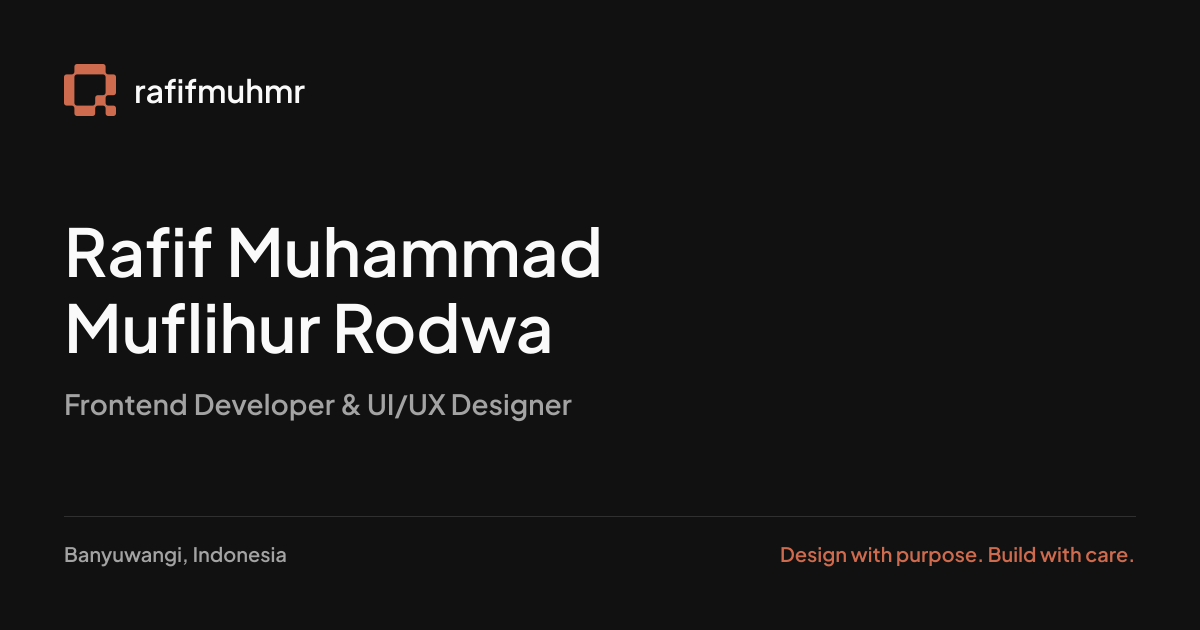
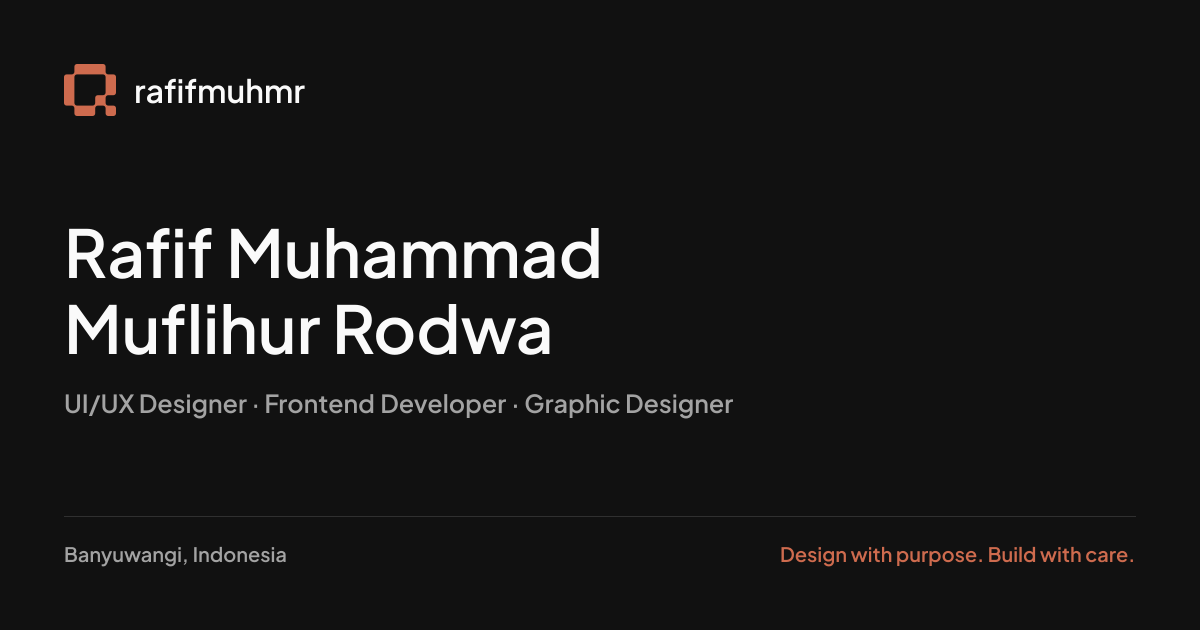
feat(home): add bilingual hero with responsive layout

diff --git a/src/components/home/hero.tsx b/src/components/home/hero.tsx
@@ -1,0 +1,37 @@
+import Image from "next/image";
+import {getTranslations} from "next-intl/server";
+import {Link} from "@/i18n/navigation";
+import {buttonVariants} from "@/components/ui/button";
+import {IconTile} from "@/components/ui/icon-tile";
+import {cn} from "@/lib/utils";
+
+export async function Hero() {
+  const t = await getTranslations("Hero");
+
+  return (
+    <section aria-labelledby="hero-title" className="grid items-stretch gap-8 sm:gap-10 md:grid-cols-2 md:gap-16 lg:gap-24">
+      <div className="flex flex-col justify-between gap-6">
+        <IconTile className="size-16 rounded-[12px] p-1 sm:size-19">
+          <Image src="/images/rafifmuhmr-pp.png" alt="Rafif Muhammad Muflihur Rodwa" width={72} height={72} sizes="(min-width: 640px) 66px, 54px" className="size-full rounded-md object-cover" />
+        </IconTile>
+        <div className="space-y-3">
+          <p className="text-sm font-medium text-muted-foreground">UI/UX Designer</p>
+          <h1 id="hero-title" className="max-w-full text-[30px] leading-tight font-medium tracking-tight text-balance sm:text-[52px]">
+            {t("greeting")}
+          </h1>
+        </div>
+      </div>
+
+      <div className="flex flex-col justify-between gap-6">
+        <h2 className="max-w-xl text-xl leading-snug font-medium tracking-tight text-balance sm:text-3xl lg:text-4xl">
+          {t("headline")}
+        </h2>
+        <p className="max-w-xl text-sm leading-6 sm:text-base sm:leading-7 text-pretty text-muted-foreground">{t("description")}</p>
+        <div className="flex flex-wrap items-center gap-3 pt-1">
+          <Link href="/contact" className={cn(buttonVariants({size: "lg"}), "px-4")}>{t("contact")}</Link>
+          <Link href="/projects" className={cn(buttonVariants({variant: "outline", size: "lg"}), "px-4")}>{t("work")}</Link>
+        </div>
+      </div>
+    </section>
+  );
+}

diff --git a/src/app/[locale]/page.tsx b/src/app/[locale]/page.tsx
@@ -3,8 +3,8 @@ import {hasLocale} from "next-intl";
 import {notFound} from "next/navigation";
 import {routing} from "@/i18n/routing";
 import {homeMetadata, homeStructuredData} from "@/lib/seo";
-import {getTranslations, setRequestLocale} from "next-intl/server";
-import { Button } from "@/components/ui/button";
+import {setRequestLocale} from "next-intl/server";
+import {Hero} from "@/components/home/hero";
 
 export async function generateMetadata({params}: {params: Promise<{locale: string}>}): Promise<Metadata> {
   const {locale} = await params;
@@ -16,27 +16,11 @@ export default async function Home({params}: {params: Promise<{locale: string}>}
   const {locale} = await params;
   if (!hasLocale(routing.locales, locale)) notFound();
   setRequestLocale(locale);
-  const t = await getTranslations("Home");
   return (
-    <main className="mx-auto w-full max-w-7xl px-4 pt-32 pb-12 sm:px-6">
+    <main className="w-full px-4 pt-18 pb-12 sm:px-6 sm:pt-36 md:pt-44 lg:pt-48">
       <script type="application/ld+json" dangerouslySetInnerHTML={{__html: JSON.stringify(homeStructuredData(locale)).replace(/</g, "\\u003c")}} />
-      <div className="flex flex-col items-center justify-center gap-6">
-      <h1 className="text-3xl font-semibold tracking-tight">
-        {t("title")}
-      </h1>
-
-      <p className="text-center text-muted-foreground">
-        {t("description")}
-      </p>
-
-      <div className="flex flex-wrap justify-center gap-3">
-        <Button>{t("primary")}</Button>
-        <Button variant="outline">{t("outline")}</Button>
-        <Button variant="ghost">{t("ghost")}</Button>
-      </div>
-
-      <p className="font-sans">{t("font")}</p>
-      <p className="font-mono">TypeScript / React / Next.js</p>
+      <div className="mx-auto w-full max-w-7xl">
+        <Hero />
       </div>
     </main>
   );

diff --git a/scripts/generate-social-images.tsx b/scripts/generate-social-images.tsx
@@ -3,7 +3,6 @@
 import {ImageResponse} from "next/og";
 import sharp from "sharp";
 import {readFile, writeFile, mkdir} from "node:fs/promises";
-import {site} from "../src/config/site";
 
 const fontUrl = "https://fonts.gstatic.com/s/plusjakartasans/v12/LDIbaomQNQcsA88c7O9yZ4KMCoOg4IA6-91aHEjcWuA_d0nNSg.ttf";
 const response = await fetch(fontUrl);
@@ -23,7 +22,7 @@ for (const locale of ["en", "id"]) {
       </div>
       <div style={{display: "flex", flexDirection: "column", gap: 22}}>
         <div style={{display: "flex", flexDirection: "column", fontSize: 66, lineHeight: 1.15, maxWidth: 1000}}><span>Rafif Muhammad</span><span>Muflihur Rodwa</span></div>
-        <div style={{fontSize: 28, color: "#a3a3a3"}}>{locale === "id" ? "Frontend Developer & Desainer UI/UX" : site.role}</div>
+        <div style={{fontSize: 25, color: "#a3a3a3"}}>{locale === "id" ? "Desainer UI/UX · Frontend Developer · Desainer Grafis" : "UI/UX Designer · Frontend Developer · Graphic Designer"}</div>
       </div>
       <div style={{display: "flex", justifyContent: "space-between", alignItems: "center", borderTop: "1px solid #303030", paddingTop: 24, color: "#a3a3a3", fontSize: 20}}>
         <span>Banyuwangi, Indonesia</span>

diff --git a/src/lib/seo.ts b/src/lib/seo.ts
@@ -6,12 +6,12 @@ import {socialLinks} from "@/config/socials";
 export type SiteLocale = (typeof routing.locales)[number];
 export const seoCopy = {
   en: {
-    title: `${site.owner} — Frontend Developer & UI/UX Designer`,
-    description: "Meet Rafif Muhammad Muflihur Rodwa (rafifmuhmr), a frontend developer and UI/UX designer based in Banyuwangi, Indonesia. Explore his work and ideas.",
+    title: `${site.owner} — UI/UX Designer`,
+    description: "Meet Rafif Muhammad Muflihur Rodwa (rafifmuhmr), a UI/UX designer in Banyuwangi, Indonesia, also exploring frontend development and graphic design.",
   },
   id: {
-    title: `${site.owner} — Frontend Developer & Desainer UI/UX`,
-    description: "Kenali Rafif Muhammad Muflihur Rodwa (rafifmuhmr), frontend developer dan desainer UI/UX dari Banyuwangi, Indonesia. Jelajahi karya dan idenya.",
+    title: `${site.owner} — Desainer UI/UX`,
+    description: "Kenali Rafif Muhammad Muflihur Rodwa (rafifmuhmr), desainer UI/UX dari Banyuwangi yang juga mendalami frontend development dan desain grafis.",
   },
 } as const;
 

diff --git a/src/config/site.ts b/src/config/site.ts
@@ -3,7 +3,7 @@ export const site = {
   url: "https://rafifmuhmr-portfolio.vercel.app",
   name: "rafifmuhmr",
   owner: "Rafif Muhammad Muflihur Rodwa",
-  role: "Frontend Developer & UI/UX Designer",
+  role: "UI/UX Designer, Frontend Developer & Graphic Designer",
 } as const;
 
 export const isPreview = process.env.VERCEL_ENV === "preview";

diff --git a/README.md b/README.md
@@ -2,7 +2,7 @@
 
 A personal portfolio by Rafif, showcasing frontend development, UI/UX design, selected projects, and writing. Built with Next.js, TypeScript, and Bun, with English and Indonesian language support.
 
-**Development status:** foundation stage. The header, footer, theme controls, language switcher, and local information widget are implemented. The homepage still contains placeholder content; work, about, blog, and contact routes currently display localized coming-soon pages excluded from indexing.
+**Development status:** foundation stage. The header, footer, theme controls, language switcher, and local information widget are implemented. The homepage includes a bilingual introduction hero; selected projects and other portfolio sections are still in development; work, about, blog, and contact routes currently display localized coming-soon pages excluded from indexing.
 
 [Instagram](https://www.instagram.com/rafifmuhmr) · [Threads](https://www.threads.com/@rafifmuhmr) · [LinkedIn](https://www.linkedin.com/in/rafifmuhmr) · [GitHub](https://github.com/rafifmuhmr)
 
@@ -192,7 +192,7 @@ See [`docs/seo-launch.md`](./docs/seo-launch.md) for indexing, metadata validati
 
 ## Roadmap
 
-- Replace placeholder content with the hero and portfolio sections.
+- Add selected projects and the remaining portfolio sections beneath the hero.
 - Replace the coming-soon work, about, blog, and contact pages with real content.
 - Integrate a CMS and content management dashboard.
 - Extend SEO metadata and the sitemap as real portfolio pages are published.
